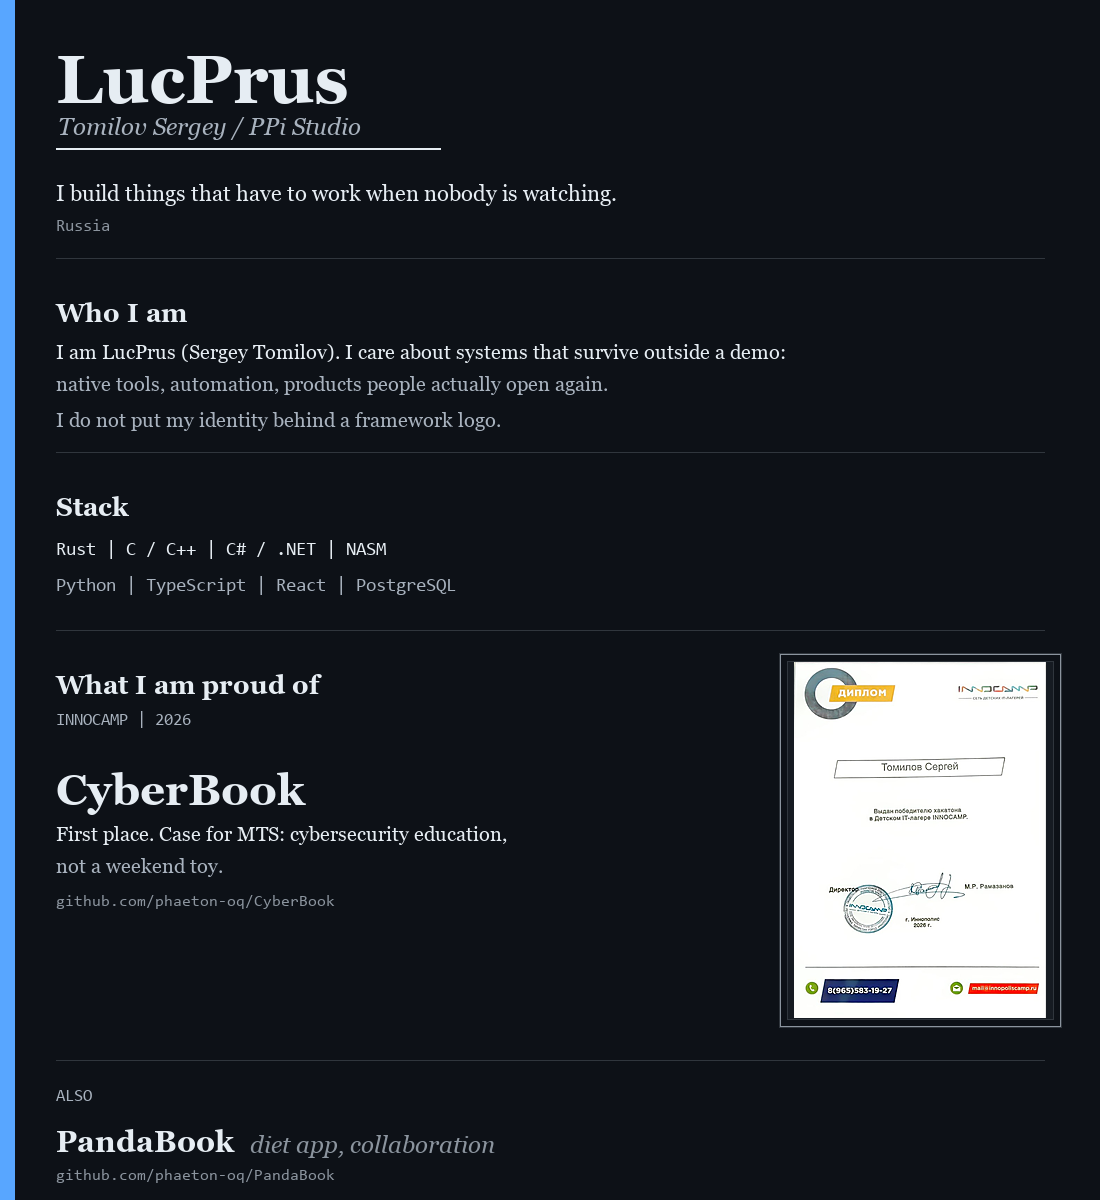
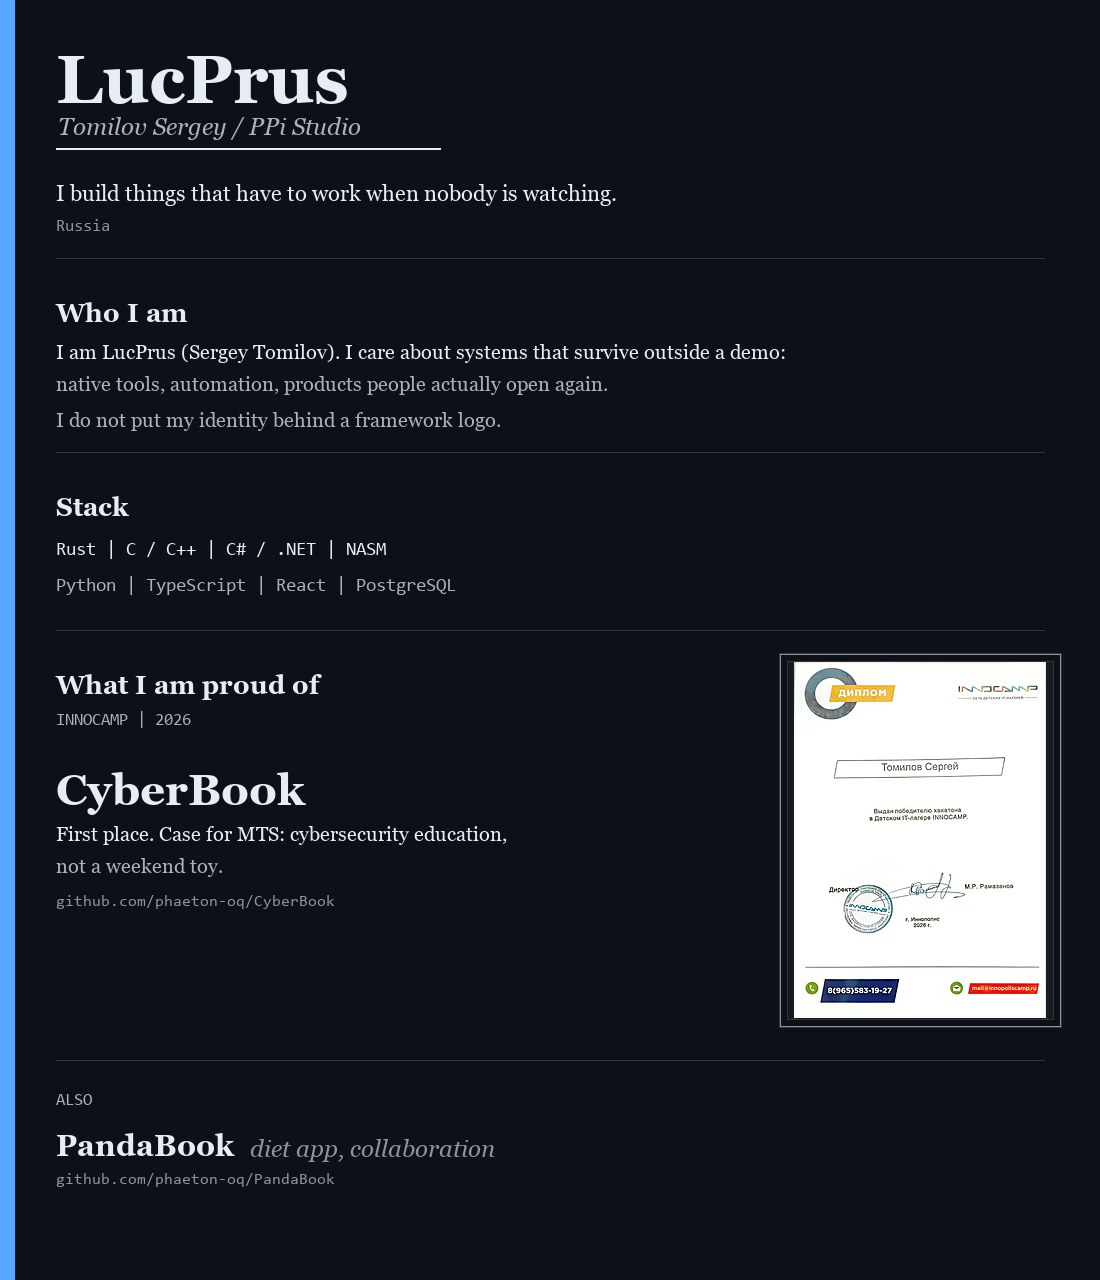
More bottom padding; drop footer repo links

diff --git a/README.md b/README.md
@@ -1,13 +1,6 @@
 <div align="center">
-<a href="https://github.com/phaeton-oq/CyberBook">
 <picture>
   <source media="(prefers-color-scheme: dark)" srcset="./assets/page-dark.png" />
   <img src="./assets/page-light.png" width="100%" alt="LucPrus - INNOCAMP winner" />
 </picture>
-</a>
-<p>
-<a href="https://github.com/phaeton-oq/CyberBook">CyberBook</a>
-|
-<a href="https://github.com/phaeton-oq/PandaBook">PandaBook</a>
-</p>
 </div>
